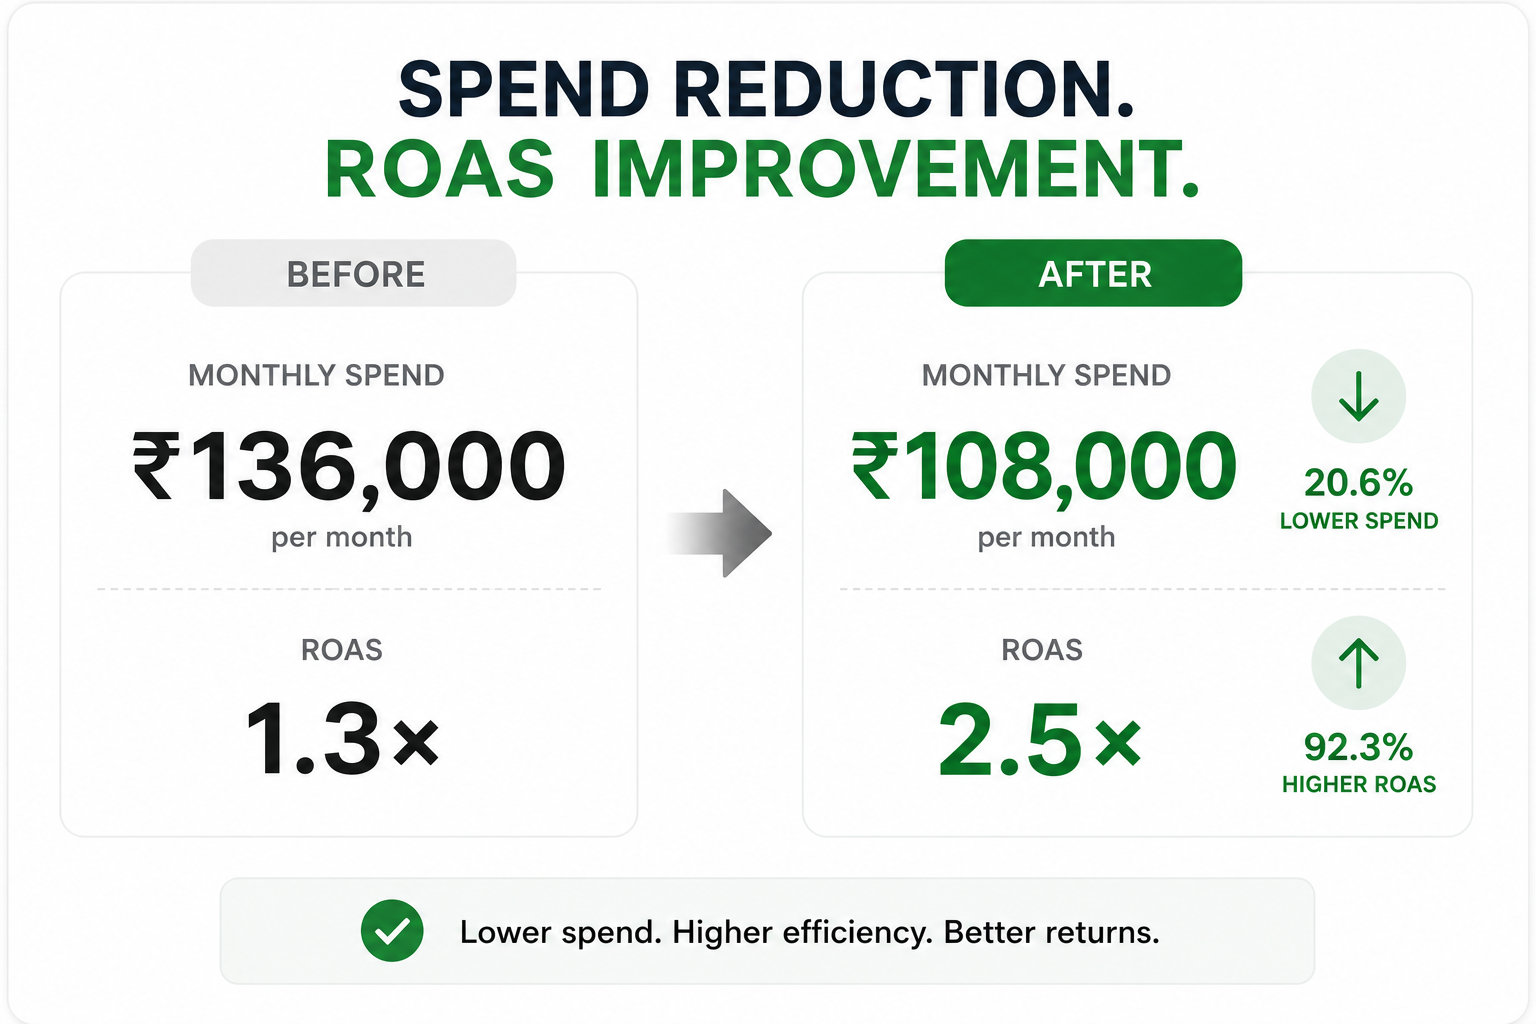
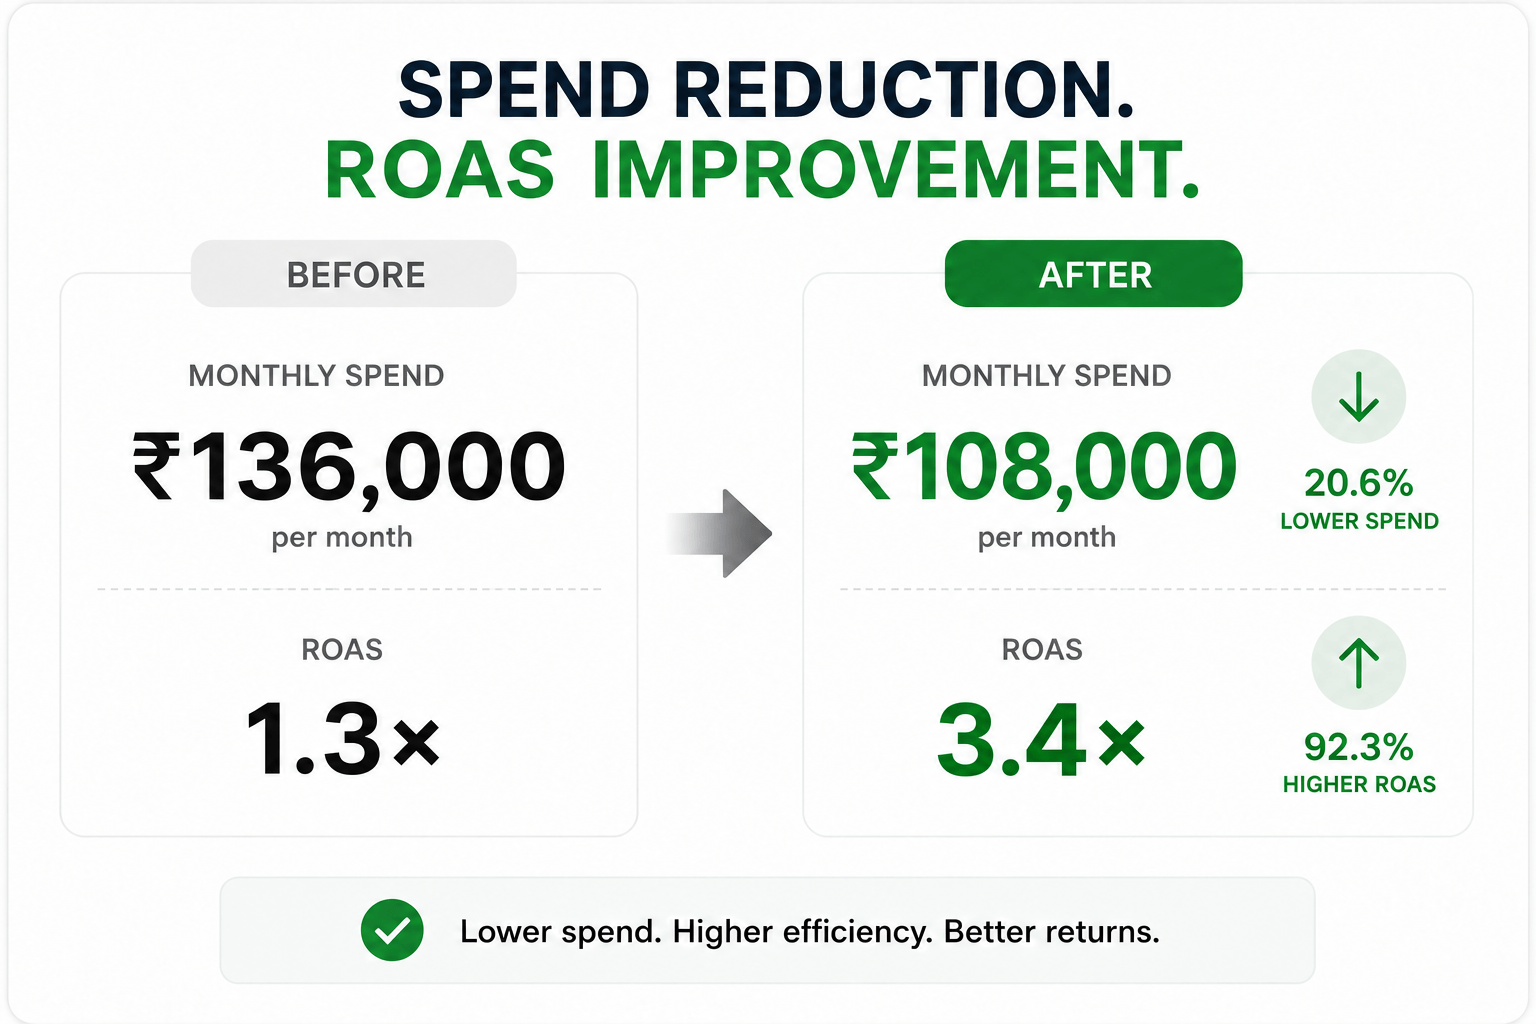
Update homepage and case study numbers

diff --git a/case-study.html b/case-study.html
@@ -19,10 +19,10 @@
     </style>
 
   <!-- Primary Meta Tags -->
-  <title>Case Study: 2.4x ROAS With 20% Less Spend | Scalebiz Marketing</title>
-  <meta name="title" content="Case Study: 2.4x ROAS With 20% Less Spend | Scalebiz Marketing" />
+  <title>Case Study: 3.4x ROAS With 20% Less Spend | Scalebiz Marketing</title>
+  <meta name="title" content="Case Study: 3.4x ROAS With 20% Less Spend | Scalebiz Marketing" />
   <meta name="description"
-    content="How we took a high-ticket account from 1.3x to 2.4x ROAS while cutting monthly ad spend ~20% — by fixing the funnel before running a single ad. Real numbers, real dashboards." />
+    content="How we took a high-ticket account from 1.3x to 3.4x ROAS while cutting monthly ad spend ~20% — by fixing the funnel before running a single ad. Real numbers, real dashboards." />
   <!-- Canonical URL -->
   <link rel="canonical" href="https://scalebizmarketing.com/case-study" />
 
@@ -30,9 +30,9 @@
   <meta property="og:locale" content="en_IN" />
   <meta property="og:type" content="article" />
   <meta property="og:site_name" content="Scalebiz Marketing" />
-  <meta property="og:title" content="Case Study: 2.4x ROAS With 20% Less Spend | Scalebiz Marketing" />
+  <meta property="og:title" content="Case Study: 3.4x ROAS With 20% Less Spend | Scalebiz Marketing" />
   <meta property="og:description"
-    content="We fixed the funnel before running a single ad. 1.3x → 2.4x ROAS, monthly spend down ~20%, cost per lead down 64% against rising CPMs." />
+    content="We fixed the funnel before running a single ad. 1.3x → 3.4x ROAS, monthly spend down ~20%, cost per lead down 59% against rising CPMs." />
   <meta property="og:url" content="https://scalebizmarketing.com/case-study" />
   <meta property="og:image" content="https://scalebizmarketing.com/assets/social/og-image.png" />
   <meta property="og:image:type" content="image/png" />
@@ -42,9 +42,9 @@
 
   <!-- Twitter -->
   <meta name="twitter:card" content="summary_large_image" />
-  <meta name="twitter:title" content="Case Study: 2.4x ROAS With 20% Less Spend | Scalebiz Marketing" />
+  <meta name="twitter:title" content="Case Study: 3.4x ROAS With 20% Less Spend | Scalebiz Marketing" />
   <meta name="twitter:description"
-    content="We fixed the funnel before running a single ad. 1.3x → 2.4x ROAS, monthly spend down ~20%, cost per lead down 64% against rising CPMs." />
+    content="We fixed the funnel before running a single ad. 1.3x → 3.4x ROAS, monthly spend down ~20%, cost per lead down 59% against rising CPMs." />
   <meta name="twitter:image" content="https://scalebizmarketing.com/assets/social/og-image.png" />
   <meta name="twitter:image:alt" content="Scalebiz Marketing – Performance-Led Growth Partner" />
 
@@ -72,7 +72,7 @@
     "@context": "https://schema.org",
     "@type": "Article",
     "headline": "We fixed the funnel before running a single ad",
-    "description": "Case study: a high-ticket account taken from 1.3x to 2.4x ROAS while monthly ad spend was cut roughly 20% — through a diagnosis-first rebuild of the offer, landing experience, measurement and reporting.",
+    "description": "Case study: a high-ticket account taken from 1.3x to 3.4x ROAS while monthly ad spend was cut roughly 20% — through a diagnosis-first rebuild of the offer, landing experience, measurement and reporting.",
     "url": "https://scalebizmarketing.com/case-study",
     "publisher": {
       "@type": "Organization",
@@ -121,7 +121,7 @@
           running a single ad.
         </h1>
 
-        <p class="ed-sub">How we took one of our clients from an underperforming account to 2.4x ROAS and
+        <p class="ed-sub">How we took one of our clients from an underperforming account to 3.4x ROAS and
           climbing, while cutting monthly ad spend by roughly 20%. We didn't spend more. We found the
           leaks first.</p>
         <a class="ed-link" href="#proof"><span class="ed-arrow" aria-hidden="true">→</span>Skip to the numbers</a>
@@ -341,25 +341,25 @@
         <!-- Hero visual: efficiency chart rebuilt natively in site styling -->
         <div class="cs-chart-card sb-reveal">
           <h3>Reach got costlier. Leads got cheaper.</h3>
-          <p class="cs-chart-sub">Monthly cost per 1,000 impressions (CPM) vs cost per lead (CPL), January–June.</p>
+          <p class="cs-chart-sub">Monthly cost per 1,000 impressions (CPM) vs cost per lead (CPL), January–September.</p>
 
           <div class="proof-stats">
             <div class="proof-stat">
-              <span class="proof-stat__num proof-stat__num--good"><span class="count" data-target="64"
-                  data-prefix="−" data-suffix="%">−64%</span></span>
+              <span class="proof-stat__num proof-stat__num--good"><span class="count" data-target="59"
+                  data-prefix="−" data-suffix="%">−59%</span></span>
               <span class="proof-stat__label">Cost per lead</span>
             </div>
             <span class="proof-vs" aria-hidden="true">while</span>
             <div class="proof-stat">
-              <span class="proof-stat__num proof-stat__num--bad"><span class="count" data-target="47"
-                  data-prefix="+" data-suffix="%">+47%</span></span>
+              <span class="proof-stat__num proof-stat__num--bad"><span class="count" data-target="1"
+                  data-prefix="+" data-suffix="%">+1%</span></span>
               <span class="proof-stat__label">CPM — auction cost</span>
             </div>
           </div>
 
           <div class="cs-chart" id="cs-chart">
             <svg viewBox="0 0 720 380" role="img"
-              aria-label="Line chart, January to June: CPM rose from ₹85 to ₹125, up 47 percent, while cost per lead fell from ₹105 to ₹37, down 64 percent.">
+              aria-label="Line chart, January to September: CPM climbed from ₹85 to a May peak of ₹155 before settling back to ₹86, up 1 percent on January, while cost per lead fell from ₹105 to ₹43, down 59 percent.">
               <!-- gridlines -->
               <line class="cs-grid-line" x1="50" y1="20" x2="630" y2="20" />
               <line class="cs-grid-line" x1="50" y1="126.7" x2="630" y2="126.7" />
@@ -372,41 +372,53 @@
               <text x="42" y="24" text-anchor="end">₹180</text>
               <!-- x labels -->
               <text x="50" y="366" text-anchor="middle">Jan</text>
-              <text x="166" y="366" text-anchor="middle">Feb</text>
-              <text x="282" y="366" text-anchor="middle">Mar</text>
-              <text x="398" y="366" text-anchor="middle">Apr</text>
-              <text x="514" y="366" text-anchor="middle">May</text>
-              <text x="630" y="366" text-anchor="middle">Jun</text>
+              <text x="122.5" y="366" text-anchor="middle">Feb</text>
+              <text x="195" y="366" text-anchor="middle">Mar</text>
+              <text x="267.5" y="366" text-anchor="middle">Apr</text>
+              <text x="340" y="366" text-anchor="middle">May</text>
+              <text x="412.5" y="366" text-anchor="middle">Jun</text>
+              <text x="485" y="366" text-anchor="middle">Jul</text>
+              <text x="557.5" y="366" text-anchor="middle">Aug</text>
+              <text x="630" y="366" text-anchor="middle">Sep</text>
               <!-- crosshair (hover) -->
               <line class="cs-cross" x1="50" y1="20" x2="50" y2="340" />
               <!-- series -->
               <polyline class="cs-line cs-line--cpm"
-                points="50,188.9 166,117.8 282,144.4 398,126.7 514,64.4 630,117.8" />
+                points="50,188.9 122.5,117.8 195,144.4 267.5,126.7 340,64.4 412.5,117.8 485,188.9 557.5,181.8 630,187.1" />
               <polyline class="cs-line cs-line--cpl"
-                points="50,153.3 166,206.7 282,251.1 398,256.4 514,254.7 630,274.2" />
+                points="50,153.3 122.5,206.7 195,251.1 267.5,256.4 340,254.7 412.5,274.2 485,263.6 557.5,258.2 630,263.6" />
               <!-- markers -->
               <circle class="cs-pt cs-pt--cpm" cx="50" cy="188.9" r="5" />
-              <circle class="cs-pt cs-pt--cpm" cx="166" cy="117.8" r="5" />
-              <circle class="cs-pt cs-pt--cpm" cx="282" cy="144.4" r="5" />
-              <circle class="cs-pt cs-pt--cpm" cx="398" cy="126.7" r="5" />
-              <circle class="cs-pt cs-pt--cpm" cx="514" cy="64.4" r="5" />
-              <circle class="cs-pt cs-pt--cpm" cx="630" cy="117.8" r="5" />
+              <circle class="cs-pt cs-pt--cpm" cx="122.5" cy="117.8" r="5" />
+              <circle class="cs-pt cs-pt--cpm" cx="195" cy="144.4" r="5" />
+              <circle class="cs-pt cs-pt--cpm" cx="267.5" cy="126.7" r="5" />
+              <circle class="cs-pt cs-pt--cpm" cx="340" cy="64.4" r="5" />
+              <circle class="cs-pt cs-pt--cpm" cx="412.5" cy="117.8" r="5" />
+              <circle class="cs-pt cs-pt--cpm" cx="485" cy="188.9" r="5" />
+              <circle class="cs-pt cs-pt--cpm" cx="557.5" cy="181.8" r="5" />
+              <circle class="cs-pt cs-pt--cpm" cx="630" cy="187.1" r="5" />
               <circle class="cs-pt cs-pt--cpl" cx="50" cy="153.3" r="5" />
-              <circle class="cs-pt cs-pt--cpl" cx="166" cy="206.7" r="5" />
-              <circle class="cs-pt cs-pt--cpl" cx="282" cy="251.1" r="5" />
-              <circle class="cs-pt cs-pt--cpl" cx="398" cy="256.4" r="5" />
-              <circle class="cs-pt cs-pt--cpl" cx="514" cy="254.7" r="5" />
-              <circle class="cs-pt cs-pt--cpl" cx="630" cy="274.2" r="5" />
+              <circle class="cs-pt cs-pt--cpl" cx="122.5" cy="206.7" r="5" />
+              <circle class="cs-pt cs-pt--cpl" cx="195" cy="251.1" r="5" />
+              <circle class="cs-pt cs-pt--cpl" cx="267.5" cy="256.4" r="5" />
+              <circle class="cs-pt cs-pt--cpl" cx="340" cy="254.7" r="5" />
+              <circle class="cs-pt cs-pt--cpl" cx="412.5" cy="274.2" r="5" />
+              <circle class="cs-pt cs-pt--cpl" cx="485" cy="263.6" r="5" />
+              <circle class="cs-pt cs-pt--cpl" cx="557.5" cy="258.2" r="5" />
+              <circle class="cs-pt cs-pt--cpl" cx="630" cy="263.6" r="5" />
               <!-- direct end labels -->
-              <text class="cs-endlabel" x="642" y="122">CPM ₹125</text>
-              <text class="cs-endlabel" x="642" y="278">CPL ₹37</text>
+              <text class="cs-endlabel" x="642" y="191">CPM ₹86</text>
+              <text class="cs-endlabel" x="642" y="268">CPL ₹43</text>
               <!-- hover hit areas (one per month) -->
-              <rect class="cs-hit" x="20" y="20" width="88" height="320" />
-              <rect class="cs-hit" x="108" y="20" width="116" height="320" />
-              <rect class="cs-hit" x="224" y="20" width="116" height="320" />
-              <rect class="cs-hit" x="340" y="20" width="116" height="320" />
-              <rect class="cs-hit" x="456" y="20" width="116" height="320" />
-              <rect class="cs-hit" x="572" y="20" width="88" height="320" />
+              <rect class="cs-hit" x="20" y="20" width="66.25" height="320" />
+              <rect class="cs-hit" x="86.25" y="20" width="72.5" height="320" />
+              <rect class="cs-hit" x="158.75" y="20" width="72.5" height="320" />
+              <rect class="cs-hit" x="231.25" y="20" width="72.5" height="320" />
+              <rect class="cs-hit" x="303.75" y="20" width="72.5" height="320" />
+              <rect class="cs-hit" x="376.25" y="20" width="72.5" height="320" />
+              <rect class="cs-hit" x="448.75" y="20" width="72.5" height="320" />
+              <rect class="cs-hit" x="521.25" y="20" width="72.5" height="320" />
+              <rect class="cs-hit" x="593.75" y="20" width="66.25" height="320" />
             </svg>
             <div class="cs-tooltip" hidden></div>
           </div>
@@ -429,6 +441,9 @@
                 <tr><td>April</td><td>120</td><td>47</td></tr>
                 <tr><td>May</td><td>155</td><td>48</td></tr>
                 <tr><td>June</td><td>125</td><td>37</td></tr>
+                <tr><td>July</td><td>85</td><td>43</td></tr>
+                <tr><td>August</td><td>89</td><td>46</td></tr>
+                <tr><td>September</td><td>86</td><td>43</td></tr>
               </tbody>
             </table>
           </details>
@@ -482,11 +497,11 @@
     <section class="founder-note">
       <div class="founder-inner">
         <span class="sb-eyebrow">The Outcome</span>
-        <h2>From 1.3x to 2.4x, and Still Climbing</h2>
+        <h2>From 1.3x to 3.4x, and Still Climbing</h2>
 
         <div class="proof-stats sb-reveal">
           <div class="proof-stat">
-            <span class="proof-stat__num proof-stat__num--good">2.4x</span>
+            <span class="proof-stat__num proof-stat__num--good">3.4x</span>
             <span class="proof-stat__label">ROAS — up from 1.3x</span>
           </div>
           <span class="proof-vs" aria-hidden="true">with</span>
@@ -499,7 +514,7 @@
 
         <div class="founder-body">
           <p>
-            2.4x is the realized figure. The latest cohort is still closing, so that number should move
+            3.4x is the realized figure. The latest cohort is still closing, so that number should move
             up rather than down. All of it on roughly 20% less monthly spend than when we started.
           </p>
           <p>
@@ -520,7 +535,7 @@
           </div>
           <div class="trust-chip">
             <span class="trust-icon">✓</span>
-            <span>Cohort still closing: 2.4x is the floor</span>
+            <span>Cohort still closing: 3.4x is the floor</span>
           </div>
         </div>
       </div>

diff --git a/index.html b/index.html
@@ -354,21 +354,21 @@
 
         <div class="proof-stats sb-reveal">
           <div class="proof-stat">
-            <span class="proof-stat__num proof-stat__num--good"><span class="count" data-target="64"
-                data-prefix="−" data-suffix="%">−64%</span></span>
+            <span class="proof-stat__num proof-stat__num--good"><span class="count" data-target="59"
+                data-prefix="−" data-suffix="%">−59%</span></span>
             <span class="proof-stat__label">Cost per result</span>
           </div>
           <span class="proof-vs" aria-hidden="true">and</span>
           <div class="proof-stat">
-            <span class="proof-stat__num proof-stat__num--conv"><span class="count" data-target="234"
-                data-prefix="+" data-suffix="%">+234%</span></span>
+            <span class="proof-stat__num proof-stat__num--conv"><span class="count" data-target="235"
+                data-prefix="+" data-suffix="%">+235%</span></span>
             <span class="proof-stat__label">Lead Conversions</span>
           </div>
         </div>
 
         <div class="founder-body">
           <p>
-            Cost per result fell by nearly two-thirds, and lead conversions climbed 234% over the same
+            Cost per result fell by nearly two-thirds, and lead conversions climbed 235% over the same
             stretch. The fix wasn't in the ad account. <span class="thesis">We repaired the
               offer and the follow-up first, then scaled what worked.</span>
           </p>

diff --git a/assets/js/pages/case-study.js b/assets/js/pages/case-study.js
@@ -13,12 +13,15 @@
 
   const VIEW_W = 720;
   const points = [
-    { month: 'January',  cpm: 85,  cpl: 105, x: 50 },
-    { month: 'February', cpm: 125, cpl: 75,  x: 166 },
-    { month: 'March',    cpm: 110, cpl: 50,  x: 282 },
-    { month: 'April',    cpm: 120, cpl: 47,  x: 398 },
-    { month: 'May',      cpm: 155, cpl: 48,  x: 514 },
-    { month: 'June',     cpm: 125, cpl: 37,  x: 630 }
+    { month: 'January',   cpm: 85,  cpl: 105, x: 50 },
+    { month: 'February',  cpm: 125, cpl: 75,  x: 122.5 },
+    { month: 'March',     cpm: 110, cpl: 50,  x: 195 },
+    { month: 'April',     cpm: 120, cpl: 47,  x: 267.5 },
+    { month: 'May',       cpm: 155, cpl: 48,  x: 340 },
+    { month: 'June',      cpm: 125, cpl: 37,  x: 412.5 },
+    { month: 'July',      cpm: 85,  cpl: 43,  x: 485 },
+    { month: 'August',    cpm: 89,  cpl: 46,  x: 557.5 },
+    { month: 'September', cpm: 86,  cpl: 43,  x: 630 }
   ];
 
   const show = (i) => {
